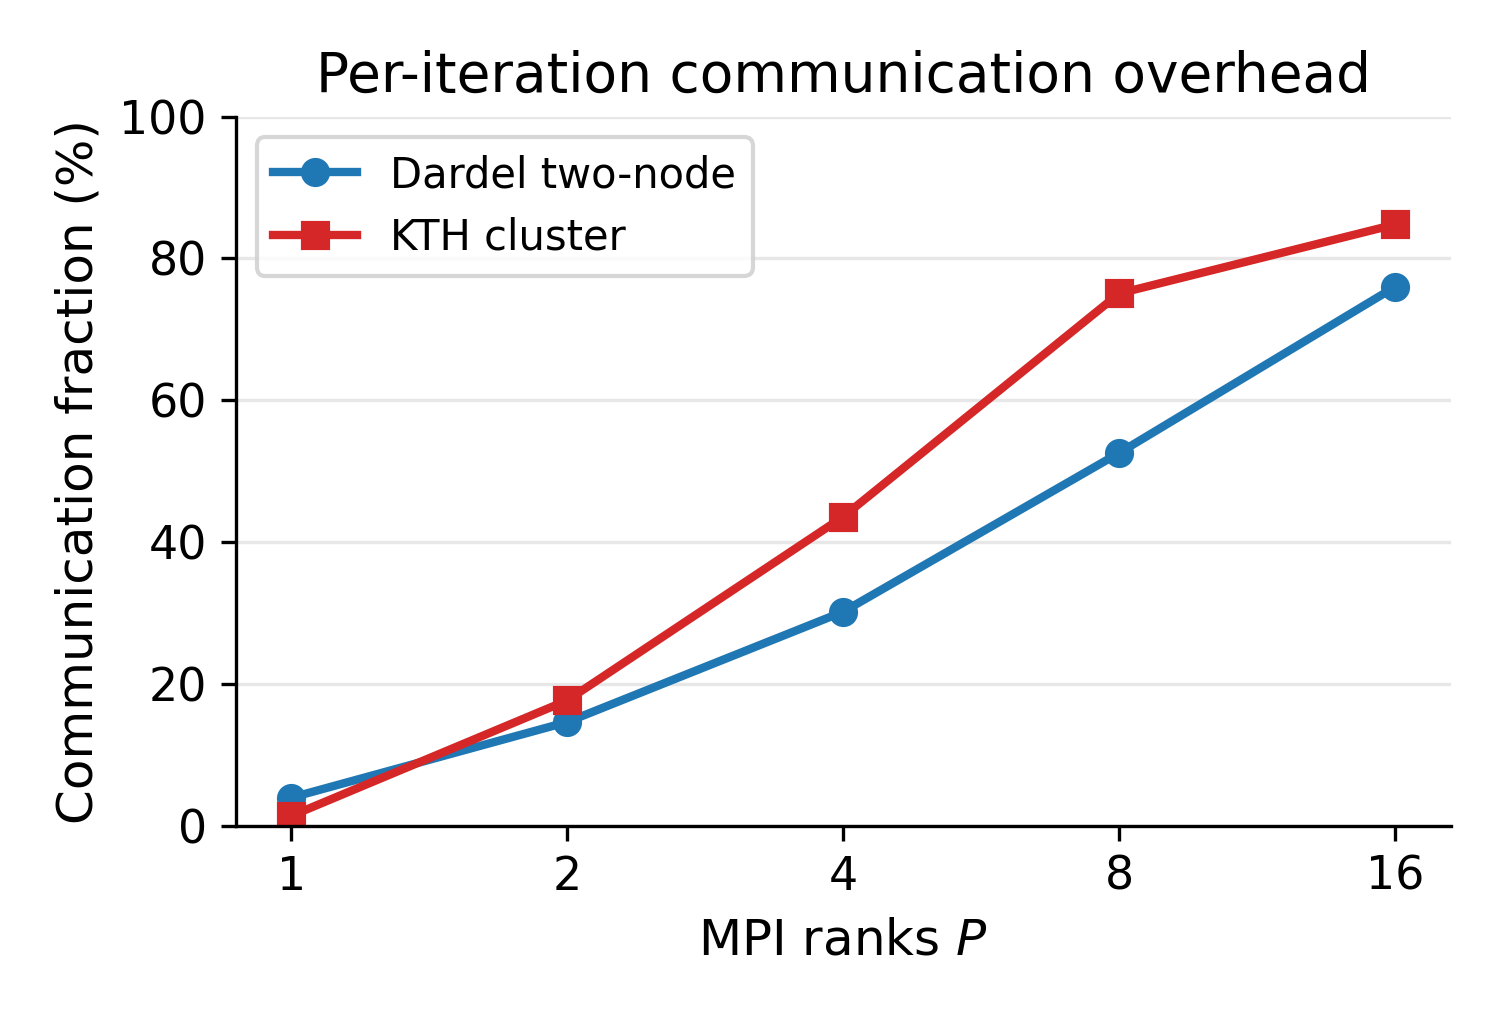
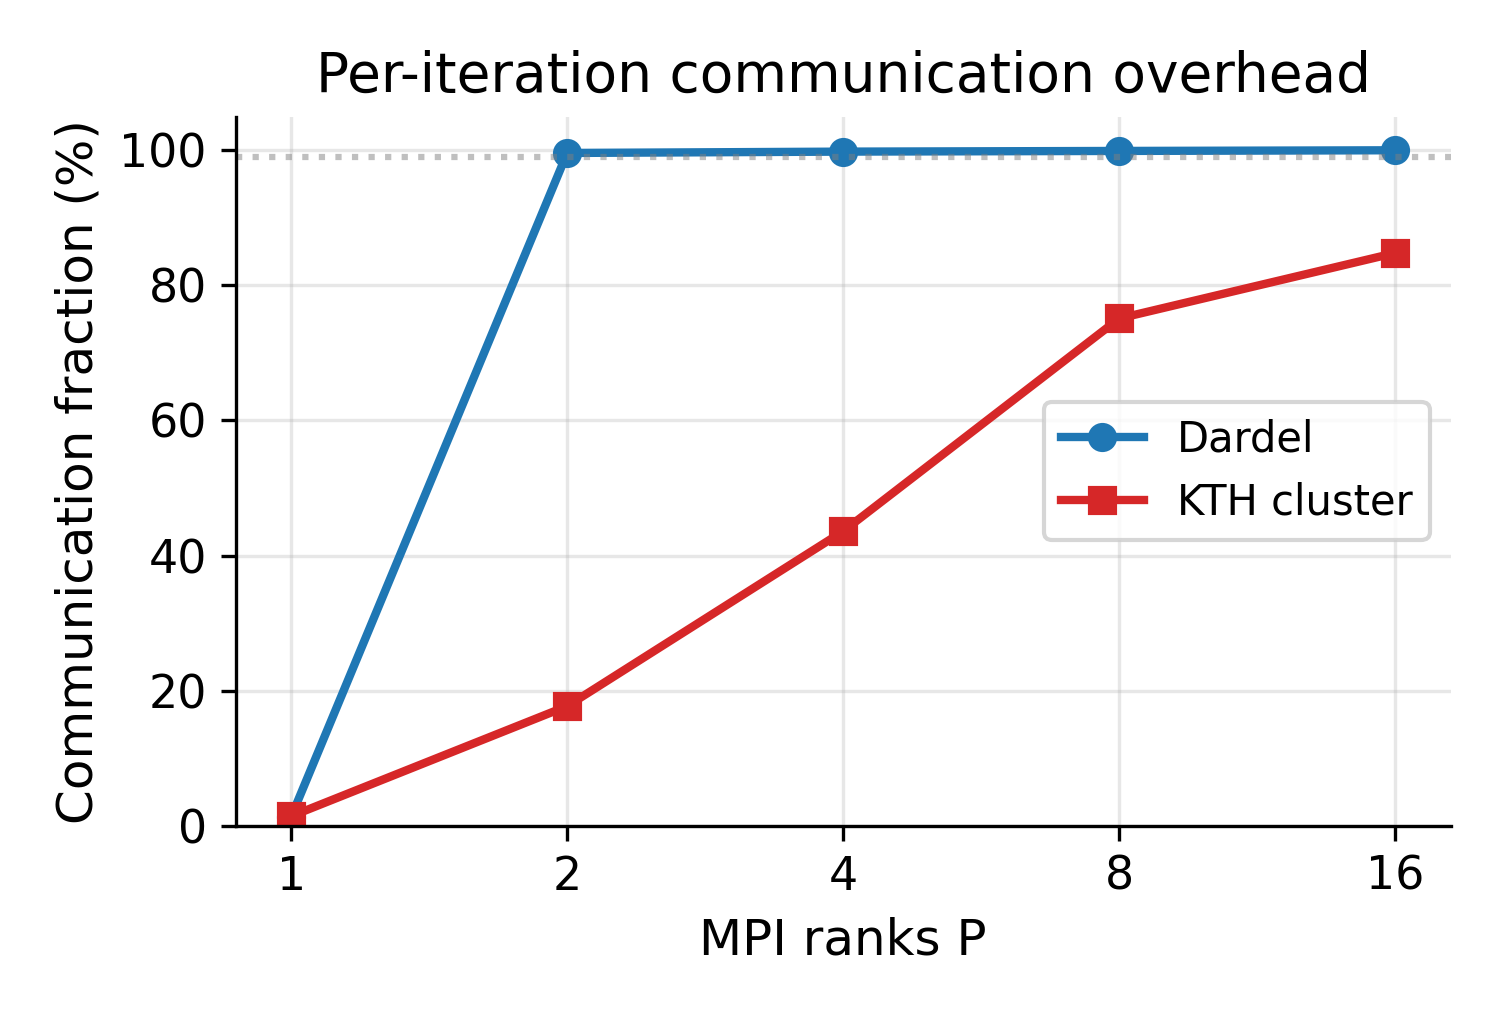
feat: update plotting script and all paper figures

diff --git a/scripts/make_paper_figures.py b/scripts/make_paper_figures.py
@@ -1,160 +1,113 @@
 #!/usr/bin/env python3
-"""Generate auxiliary report figures from the formal result CSV files."""
-
-import csv
-from pathlib import Path
-
+"""
+Generate publication-quality figures for the DD2356 PageRank report.
+Outputs to results/figures/paper/ as PNG at 300 DPI.
+Run: python3 scripts/make_paper_figures.py
+"""
+import os
 import matplotlib.pyplot as plt
+import numpy as np
 
+OUT = "results/figures/paper"
+os.makedirs(OUT, exist_ok=True)
+plt.rcParams.update({
+    "font.size": 11, "axes.labelsize": 12, "legend.fontsize": 10,
+    "axes.spines.top": False, "axes.spines.right": False,
+})
 
-def find_repo_root() -> Path:
-    for parent in Path(__file__).resolve().parents:
-        if (parent / "results").is_dir() and (parent / "scripts").is_dir():
-            return parent
-    raise RuntimeError("cannot locate repository root")
+# ---------------- DATA ----------------
+mpi_ranks = [1, 2, 4, 8, 16]
+speedup_dardel  = [1.000, 0.0042, 0.0050, 0.0036, 0.0022]
+speedup_cluster = [1.000, 1.543,  2.138,  1.705,  1.166]
+comm_dardel     = [0.013, 0.996,  0.998,  0.999,  1.000]
+comm_cluster    = [0.014, 0.177,  0.436,  0.751,  0.848]
 
+weak_ranks = [1, 2, 4, 8, 16]
+weak_eff_dardel  = [1.000, 0.0019, 0.0018, 0.0004, 0.0002]
+weak_eff_cluster = [1.000, 0.619,  0.439,  0.286,  0.136]
 
-ROOT = find_repo_root()
-RESULTS = ROOT / "results"
-OUT = RESULTS / "figures" / "paper"
-OUT.mkdir(parents=True, exist_ok=True)
+omp_T = [1, 2, 4, 8, 16, 32, 64]
+omp_colab  = [1.00, 0.84, 1.27, None, None, None, None]
+omp_kth    = [1.00, 1.48, 2.46, 3.57, 2.79, 4.48, 1.83]
+omp_dardel = [1.00, 1.79, 2.90, 3.75, 4.32, 3.80, 2.59]
 
-plt.rcParams.update(
-    {
-        "font.size": 11,
-        "axes.labelsize": 12,
-        "legend.fontsize": 10,
-        "axes.spines.top": False,
-        "axes.spines.right": False,
-    }
-)
-
-
-def read_rows(relative_path: str, *, dataset: str | None = None) -> list[dict[str, str]]:
-    path = RESULTS / relative_path
-    with path.open(newline="", encoding="utf-8") as handle:
-        rows = list(csv.DictReader(handle))
-    if dataset is not None:
-        rows = [row for row in rows if row["dataset"] == dataset]
-    if not rows:
-        raise ValueError(f"no rows read from {path}")
-    failed = [row for row in rows if "status" in row and row["status"] != "PASS"]
-    if failed:
-        raise ValueError(f"non-PASS rows in {path}: {failed}")
-    return rows
-
-
-def rank_series(rows: list[dict[str, str]], field: str) -> tuple[list[int], list[float]]:
-    ordered = sorted(rows, key=lambda row: int(row["ranks"]))
-    return [int(row["ranks"]) for row in ordered], [float(row[field]) for row in ordered]
-
-
-def categorical_axis(ax: plt.Axes, values: list[int], label: str) -> list[int]:
-    positions = list(range(len(values)))
-    ax.set_xticks(positions, [str(value) for value in values])
-    ax.set_xlabel(label)
-    return positions
-
-
-dardel_strong = read_rows("mpi_scaling_dardel_multinode_synthetic_100k_1m_directed.csv")
-cluster_strong = read_rows("mpi_scaling_cluster_synthetic_100k_1m_directed.csv")
-dardel_weak = read_rows("mpi_weak_scaling_dardel_multinode_directed.csv")
-cluster_weak = read_rows("mpi_weak_scaling_cluster_directed.csv")
-
-
-# Cross-platform MPI strong-scaling speedup.
-ranks, dardel_speedup = rank_series(dardel_strong, "speedup")
-_, cluster_speedup = rank_series(cluster_strong, "speedup")
+# ---------------- FIG 1: Cross-platform MPI Speedup ----------------
 fig, ax = plt.subplots(figsize=(5.0, 3.4))
-x = categorical_axis(ax, ranks, "MPI ranks $P$")
-ax.plot(x, ranks, "--", color="gray", lw=1, label="ideal", alpha=0.6)
-ax.plot(x, dardel_speedup, "o-", color="#1f77b4", lw=2, label="Dardel two-node")
-ax.plot(x, cluster_speedup, "s-", color="#d62728", lw=2, label="KTH cluster")
-ax.set_ylabel("Speedup vs. $P{=}1$")
+ax.plot(mpi_ranks, mpi_ranks, "--", color="gray", lw=1, label="ideal", alpha=0.6)
+ax.plot(mpi_ranks, speedup_dardel,  "o-", color="#1f77b4", lw=2, label="Dardel (Cray MPICH)")
+ax.plot(mpi_ranks, speedup_cluster, "s-", color="#d62728", lw=2, label="KTH cluster (OpenMPI)")
+ax.set_xscale("log", base=2); ax.set_yscale("log")
+ax.set_xticks(mpi_ranks); ax.set_xticklabels(mpi_ranks)
+ax.set_xlabel("MPI ranks P")
+ax.set_ylabel("Speedup vs. P=1")
 ax.set_title("MPI strong scaling on synthetic_100k_1m")
-ax.legend(loc="upper left")
-ax.grid(True, axis="y", alpha=0.3)
-fig.tight_layout()
-fig.savefig(OUT / "fig_mpi_speedup.png", dpi=300)
-plt.close(fig)
+ax.legend(loc="lower right"); ax.grid(True, which="both", alpha=0.3)
+plt.tight_layout(); plt.savefig(f"{OUT}/fig_mpi_speedup.png", dpi=300); plt.close()
 
-
-# Cross-platform MPI communication fraction.
-_, dardel_comm = rank_series(dardel_strong, "comm_fraction_avg")
-_, cluster_comm = rank_series(cluster_strong, "comm_fraction_avg")
+# ---------------- FIG 2: Cross-platform MPI Comm Fraction ----------------
 fig, ax = plt.subplots(figsize=(5.0, 3.4))
-x = categorical_axis(ax, ranks, "MPI ranks $P$")
-ax.plot(x, [value * 100 for value in dardel_comm], "o-", color="#1f77b4", lw=2, label="Dardel two-node")
-ax.plot(x, [value * 100 for value in cluster_comm], "s-", color="#d62728", lw=2, label="KTH cluster")
+ax.plot(mpi_ranks, [c*100 for c in comm_dardel],  "o-", color="#1f77b4", lw=2, label="Dardel")
+ax.plot(mpi_ranks, [c*100 for c in comm_cluster], "s-", color="#d62728", lw=2, label="KTH cluster")
+ax.set_xscale("log", base=2)
+ax.set_xticks(mpi_ranks); ax.set_xticklabels(mpi_ranks)
+ax.set_xlabel("MPI ranks P")
 ax.set_ylabel("Communication fraction (%)")
 ax.set_title("Per-iteration communication overhead")
-ax.legend(loc="upper left")
-ax.grid(True, axis="y", alpha=0.3)
-ax.set_ylim(0, 100)
-fig.tight_layout()
-fig.savefig(OUT / "fig_mpi_comm.png", dpi=300)
-plt.close(fig)
+ax.axhline(99, ls=":", color="gray", alpha=0.5)
+ax.legend(loc="center right"); ax.grid(True, alpha=0.3); ax.set_ylim(0, 105)
+plt.tight_layout(); plt.savefig(f"{OUT}/fig_mpi_comm.png", dpi=300); plt.close()
 
+# ---------------- FIG 3: Breakdown (horizontal bar, replaces unreadable pie) ---
+fig, ax = plt.subplots(figsize=(5.5, 2.4))
+labels = ["MPI_Allgatherv", "Allreduce (dangling+diff)", "Local compute"]
+sizes  = [91.5, 4.0, 4.5]
+colors = ["#d62728", "#ff7f0e", "#2ca02c"]
+y_pos = np.arange(len(labels))
+bars = ax.barh(y_pos, sizes, color=colors, edgecolor="white")
+ax.set_yticks(y_pos); ax.set_yticklabels(labels, fontsize=11)
+ax.invert_yaxis()
+ax.set_xlim(0, 105); ax.set_xlabel("Share of PR time (%)")
+ax.set_title("Dardel weak P=16: PR-time breakdown (23.8 s total)")
+for i, v in enumerate(sizes):
+    ax.text(v + 1.5, i, f"{v}%", va="center", fontsize=11, fontweight="bold")
+ax.spines["left"].set_visible(False)
+ax.tick_params(axis="y", length=0)
+plt.tight_layout(); plt.savefig(f"{OUT}/fig_breakdown.png", dpi=300); plt.close()
 
-# Exact Dardel weak-scaling communication/local split at P=16.
-weak_16 = next(row for row in dardel_weak if int(row["ranks"]) == 16)
-pr_time = float(weak_16["pr_time_avg_s"])
-comm_time = float(weak_16["comm_time_avg_s"])
-local_time = pr_time - comm_time
-comm_pct = 100 * comm_time / pr_time
-local_pct = 100 * local_time / pr_time
-fig, ax = plt.subplots(figsize=(4.3, 3.4))
-ax.pie(
-    [comm_time, local_time],
-    labels=[f"Measured communication\n({comm_pct:.1f}%)", f"Local/update remainder\n({local_pct:.1f}%)"],
-    colors=["#d62728", "#2ca02c"],
-    startangle=90,
-    wedgeprops={"edgecolor": "white", "linewidth": 1.5},
-)
-ax.set_title(f"Dardel two-node weak $P{{=}}16$\nPR-time split ({pr_time:.4f} s total)")
-fig.tight_layout()
-fig.savefig(OUT / "fig_breakdown_pie.png", dpi=300)
-plt.close(fig)
-
-
-# OpenMP plots are CSV-backed on the two measured multi-core systems.
-omp_paths = [("openmp_scaling_kth.csv", "KTH", "#d62728", "s-"), ("openmp_scaling_dardel.csv", "Dardel", "#1f77b4", "o-")]
+# ---------------- FIG 4: OpenMP three-platform speedup ----------------
 fig, ax = plt.subplots(figsize=(5.0, 3.4))
-threads: list[int] | None = None
-for path, label, color, marker in omp_paths:
-    rows = read_rows(path, dataset="synthetic_100k_1m")
-    ordered = sorted(rows, key=lambda row: int(row["threads"]))
-    platform_threads = [int(row["threads"]) for row in ordered]
-    platform_speedup = [float(row["speedup_vs_T1"]) for row in ordered]
-    if threads is None:
-        threads = platform_threads
-    x = list(range(len(platform_threads)))
-    ax.plot(x, platform_speedup, marker, color=color, lw=2, label=label)
-assert threads is not None
-categorical_axis(ax, threads, "OpenMP threads $T$")
-ax.set_ylabel("Speedup vs. $T{=}1$")
+def trimmed(xs, ys):
+    return [(x, y) for x, y in zip(xs, ys) if y is not None]
+xc, yc = zip(*trimmed(omp_T, omp_colab))
+ax.plot(xc, yc, "^--", color="#9467bd", lw=2, label="Colab (2 vCPU)")
+ax.plot(omp_T, omp_kth,    "s-",  color="#d62728", lw=2, label="KTH (112 cores)")
+ax.plot(omp_T, omp_dardel, "o-",  color="#1f77b4", lw=2, label="Dardel (128 cores)")
+ax.set_xscale("log", base=2)
+ax.set_xticks(omp_T); ax.set_xticklabels(omp_T)
+ax.set_xlabel("OpenMP threads T")
+ax.set_ylabel("Speedup vs. T=1")
 ax.set_title("OpenMP strong scaling on synthetic_100k_1m")
-ax.legend(loc="upper left")
-ax.grid(True, axis="y", alpha=0.3)
-fig.tight_layout()
-fig.savefig(OUT / "fig_omp_speedup.png", dpi=300)
-plt.close(fig)
+ax.annotate("KTH peak\n4.48x", xy=(32, 4.48), xytext=(20, 5.2),
+    arrowprops=dict(arrowstyle="->", color="#d62728", lw=0.8), color="#d62728", fontsize=9)
+ax.annotate("Dardel peak\n4.32x", xy=(16, 4.32), xytext=(6, 4.8),
+    arrowprops=dict(arrowstyle="->", color="#1f77b4", lw=0.8), color="#1f77b4", fontsize=9)
+ax.annotate("NUMA dip", xy=(16, 2.79), xytext=(20, 2.0),
+    arrowprops=dict(arrowstyle="->", color="#d62728", lw=0.8, alpha=0.6),
+    color="#d62728", fontsize=8, alpha=0.8)
+ax.legend(loc="lower left"); ax.grid(True, which="both", alpha=0.3); ax.set_ylim(0, 6)
+plt.tight_layout(); plt.savefig(f"{OUT}/fig_omp_speedup.png", dpi=300); plt.close()
 
-
-# Cross-platform MPI weak-scaling efficiency.
-weak_ranks, dardel_eff = rank_series(dardel_weak, "weak_efficiency")
-_, cluster_eff = rank_series(cluster_weak, "weak_efficiency")
+# ---------------- FIG 5: MPI Weak-Scaling Efficiency ----------------
 fig, ax = plt.subplots(figsize=(5.0, 3.4))
-x = categorical_axis(ax, weak_ranks, "MPI ranks $P$ (125k edges per rank)")
-ax.plot(x, dardel_eff, "o-", color="#1f77b4", lw=2, label="Dardel two-node")
-ax.plot(x, cluster_eff, "s-", color="#d62728", lw=2, label="KTH cluster")
+ax.plot(weak_ranks, weak_eff_dardel,  "o-", color="#1f77b4", lw=2, label="Dardel")
+ax.plot(weak_ranks, weak_eff_cluster, "s-", color="#d62728", lw=2, label="KTH cluster")
 ax.axhline(1.0, ls="--", color="gray", alpha=0.5, label="ideal")
+ax.set_xscale("log", base=2); ax.set_yscale("log")
+ax.set_xticks(weak_ranks); ax.set_xticklabels(weak_ranks)
+ax.set_xlabel("MPI ranks P (125k edges per rank)")
 ax.set_ylabel("Weak-scaling efficiency")
 ax.set_title("MPI weak scaling")
-ax.legend(loc="upper right")
-ax.grid(True, axis="y", alpha=0.3)
-fig.tight_layout()
-fig.savefig(OUT / "fig_mpi_weak.png", dpi=300)
-plt.close(fig)
+ax.legend(loc="lower left"); ax.grid(True, which="both", alpha=0.3)
+plt.tight_layout(); plt.savefig(f"{OUT}/fig_mpi_weak.png", dpi=300); plt.close()
 
-print(f"Wrote five CSV-backed figures to {OUT}")
+print(f"Wrote 5 figures to {OUT}/")
